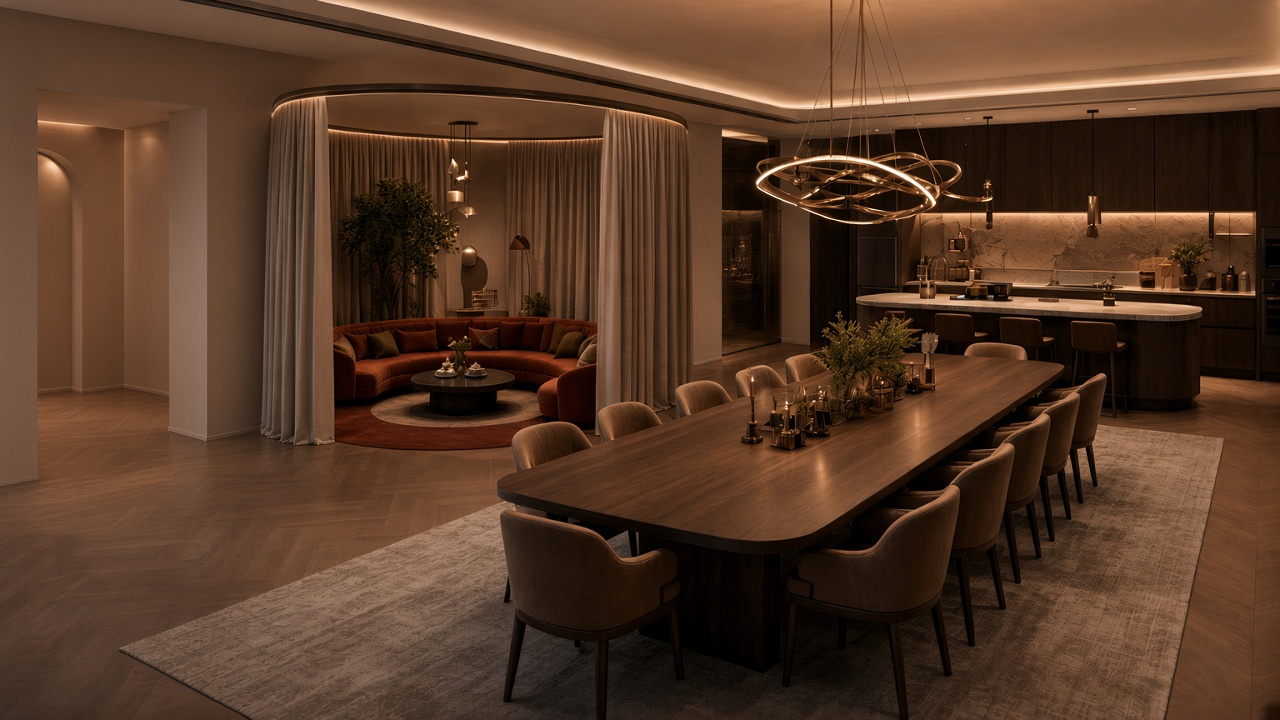
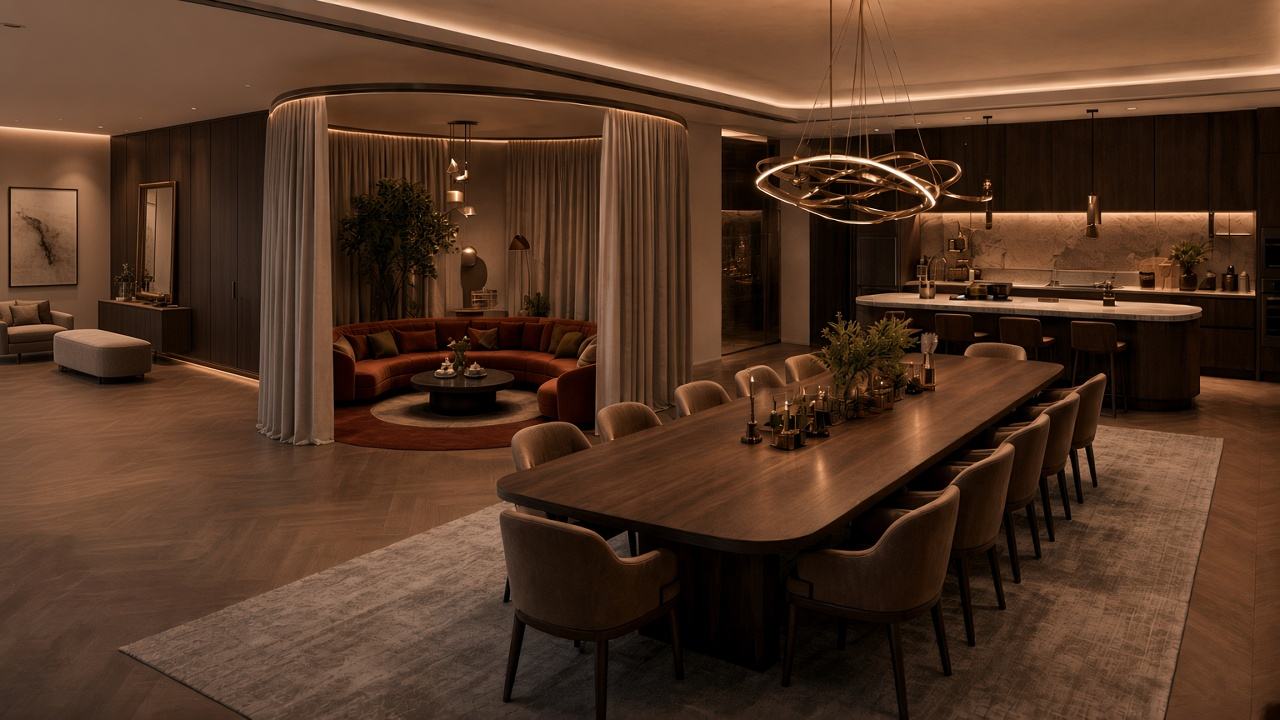
Open Talsinki garderobe area

diff --git a/talsinki-heaoluruum/index.html b/talsinki-heaoluruum/index.html
@@ -2103,7 +2103,7 @@
       </div>
 
       <figure class="simple-hero-visual">
-        <img src="./assets/talsinki-salong-concept.jpg?v=refined-opening" width="1280" height="720" alt="Talsinki Salongi esindusliku toidustuudio, pika söögilaua ja eraldatava ümara lounge’i kontseptsioonivisuaal">
+        <img src="./assets/talsinki-salong-concept.jpg?v=open-garderobe" width="1280" height="720" alt="Talsinki Salongi esindusliku toidustuudio, avatud garderoobiala ja eraldatava ümara lounge’i kontseptsioonivisuaal">
         <figcaption>
           <strong>Talsinki Salong · kontseptsioonivisuaal</strong>
           Sisehoovi avanev esinduslik toidustuudio: pikk ühine söögilaud, professionaalne köök ja kardinatega eraldatav ümar lounge.
